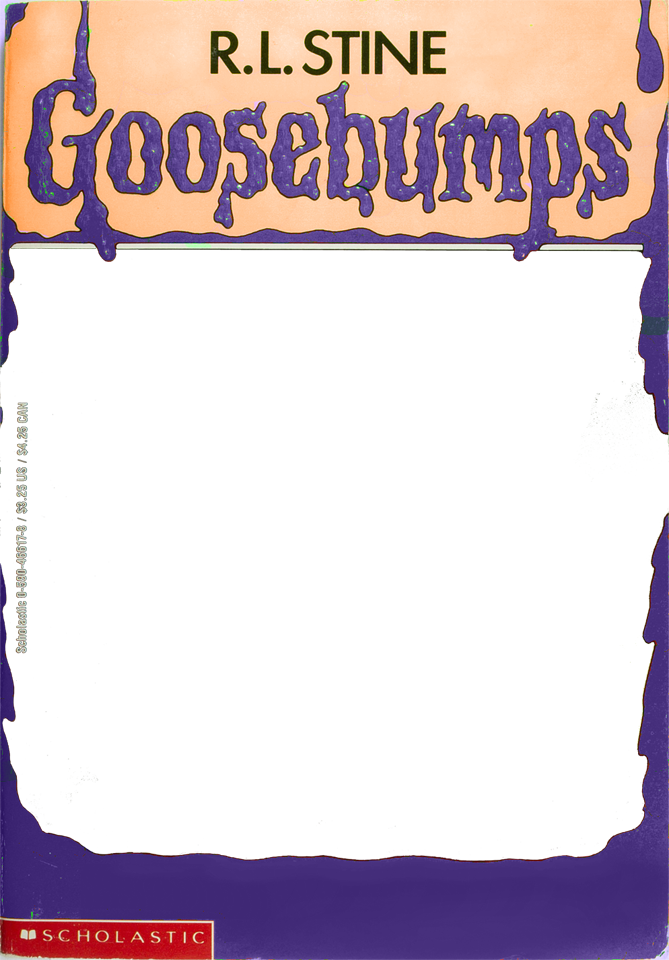
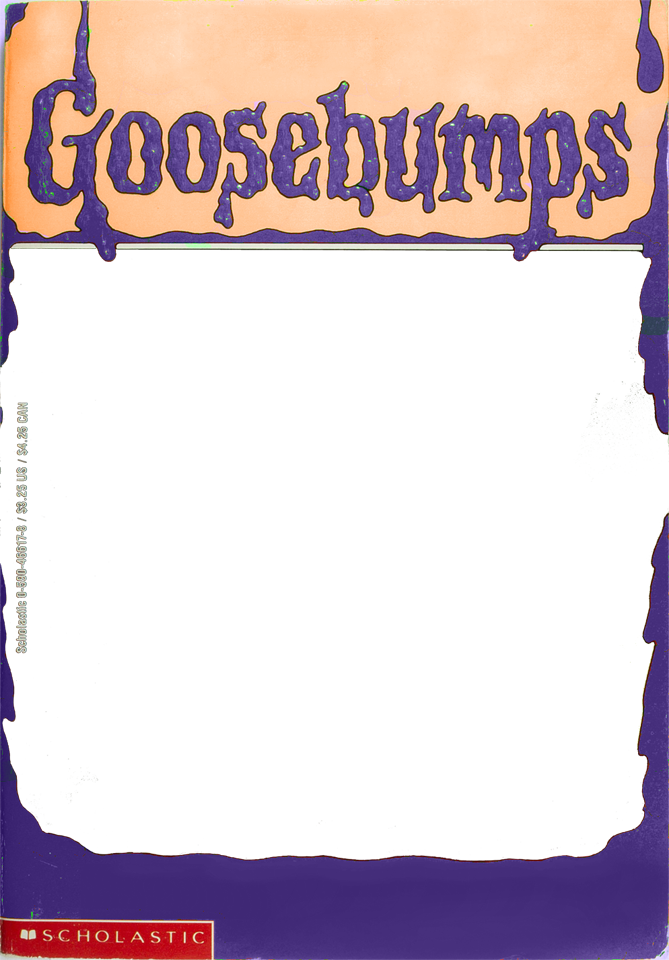
testing out having display name as author

Changed region(s): [[0.299, 0.0, 0.6876, 0.0938]]

diff --git a/bot.js b/bot.js
@@ -356,46 +356,7 @@ client.on('message', async message => {
 		/*if (beaboMessage.substring(0, 4) === '!gb ') {
 		giantbomb(message, beaboMessage);
 		}*/
-		if (new RegExp(/b!goosebumps/gm).test(message.content.toLowerCase().substring(0, 12)) && message.attachments.array().length > 0 && message.attachments.array()[0].width > 0){
-		request.get(message.attachments.array()[0].url, function(err, res, body){
-		var img = new Image;
-		img.src = body;
 		
-		concat({
-			images: [fs.readFileSync('./goosebumps'+Math.floor(Math.random() * 3).toString()+'.png')], margin: 0
-		}, function(err, canvas){
-		var img2 = new Image;
-			img2.src = canvas.toBuffer();
-			var ctx = canvas.getContext('2d');
-			ctx.drawImage(img, 0, 240, 669, 640);
-			ctx.drawImage(img2, 0, 0, 669, 960);
-			canvas.imageSmoothingEnabled = false;
-			ctx.font = '60px "GooseBumps"';
-			ctx.fillStyle = "white";
-			ctx.textAlign = "center";
-			ctx.textBaseline = "Alphabetic";
-			if (message.content.length > 13){
-			var words = message.content.substring(13).trim().split('\n');
-			words[0] = words[0].toUpperCase()
-			ctx.fillText(words[0], 335, 910);
-			ctx.font = '24px "GooseBumps"';
-			ctx.fillStyle = "black"
-			var xOffset = Math.floor((Math.random() * 580)) + 20;
-			var yOffset = Math.floor((Math.random() * 500)) + 300;
-			for(var i = 1; i < words.length; i++){
-			ctx.fillText(words[i], xOffset + 2, yOffset + (i * 24) + 2);
-			}
-			ctx.fillStyle = "white";
-			for(var i = 1; i < words.length; i++){
-			ctx.fillText(words[i], xOffset, yOffset + (i * 24));
-			}
-			}
-			message.channel.send({
-						files: [{attachment: canvas.toBuffer(),name: 'goosebumps.png'}]
-					});
-		});
-		});
-		}
 		if (message.channel.hasOwnProperty('guild') && (new RegExp(/set ([a-z]+) ((true)|(false))/gm)).test(beaboMessage) && message.member.hasPermission("ADMINISTRATOR")) {
 			var fields = beaboMessage.split(' ');
 			herokupg.query("UPDATE permissions SET " + fields[1] + " = " + fields[2] + " WHERE guild_id = \'" + message.guild.id.toString() + "\';", (err, res) => {
@@ -527,6 +488,49 @@ client.on('message', async message => {
 					}
 				]
 			});
+		}
+		
+		if (new RegExp(/b!goosebumps/gm).test(message.content.toLowerCase().substring(0, 12)) && message.attachments.array().length > 0 && message.attachments.array()[0].width > 0){
+		request.get(message.attachments.array()[0].url, function(err, res, body){
+		var img = new Image;
+		img.src = body;
+		
+		concat({
+			images: [fs.readFileSync('./goosebumps'+Math.floor(Math.random() * 3).toString()+'.png')], margin: 0
+		}, function(err, canvas){
+		var img2 = new Image;
+			img2.src = canvas.toBuffer();
+			var ctx = canvas.getContext('2d');
+			ctx.drawImage(img, 0, 240, 669, 640);
+			ctx.drawImage(img2, 0, 0, 669, 960);
+			canvas.imageSmoothingEnabled = false;
+			ctx.font = '60px "GooseBumps"';
+			ctx.fillStyle = "white";
+			ctx.textAlign = "center";
+			ctx.textBaseline = "Alphabetic";
+			if (message.content.length > 13){
+			var words = message.content.substring(13).trim().split('\n');
+			words[0] = words[0].toUpperCase()
+			ctx.fillText(words[0], 335, 910);
+			ctx.fillStyle = "black"
+			ctx.fillText(message.member.displayName.toUpperCase(), 335, 75);
+			ctx.font = '24px "GooseBumps"';
+			
+			var xOffset = Math.floor((Math.random() * 580)) + 20;
+			var yOffset = Math.floor((Math.random() * 500)) + 300;
+			for(var i = 1; i < words.length; i++){
+			ctx.fillText(words[i], xOffset + 2, yOffset + (i * 24) + 2);
+			}
+			ctx.fillStyle = "white";
+			for(var i = 1; i < words.length; i++){
+			ctx.fillText(words[i], xOffset, yOffset + (i * 24));
+			}
+			}
+			message.channel.send({
+						files: [{attachment: canvas.toBuffer(),name: 'goosebumps.png'}]
+					});
+		});
+		});
 		}
 
 		if (new RegExp(/eb(n|m|s|b|p|N|M|S|B|P)\W/gm).test(beaboMessage.substring(0, 4))) {
